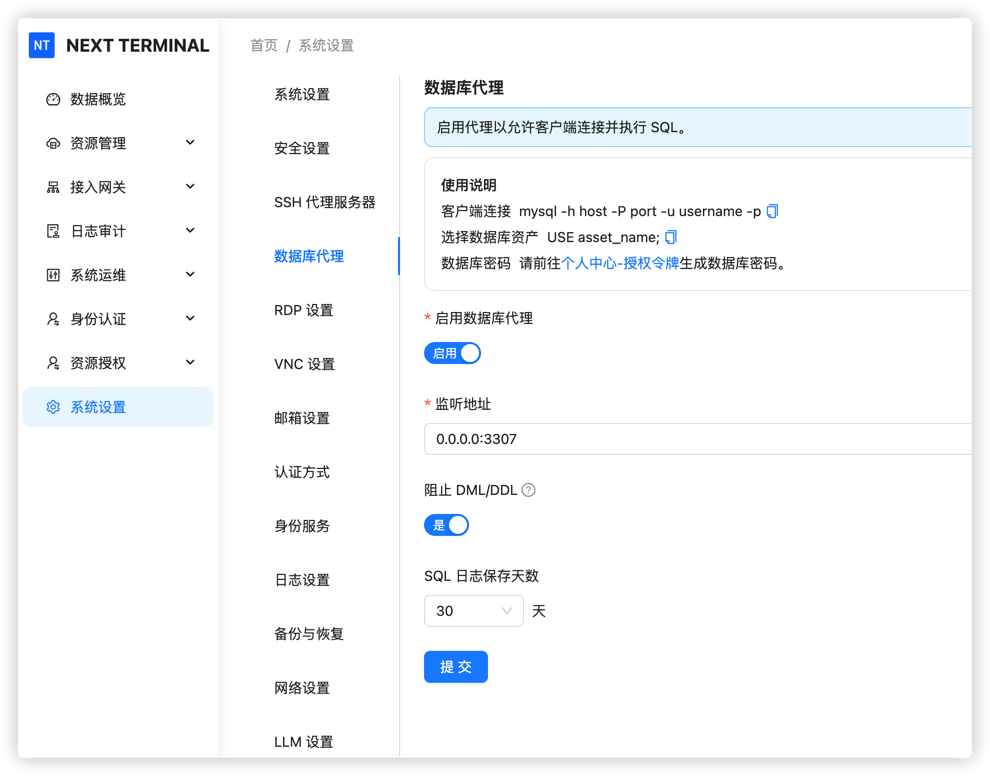
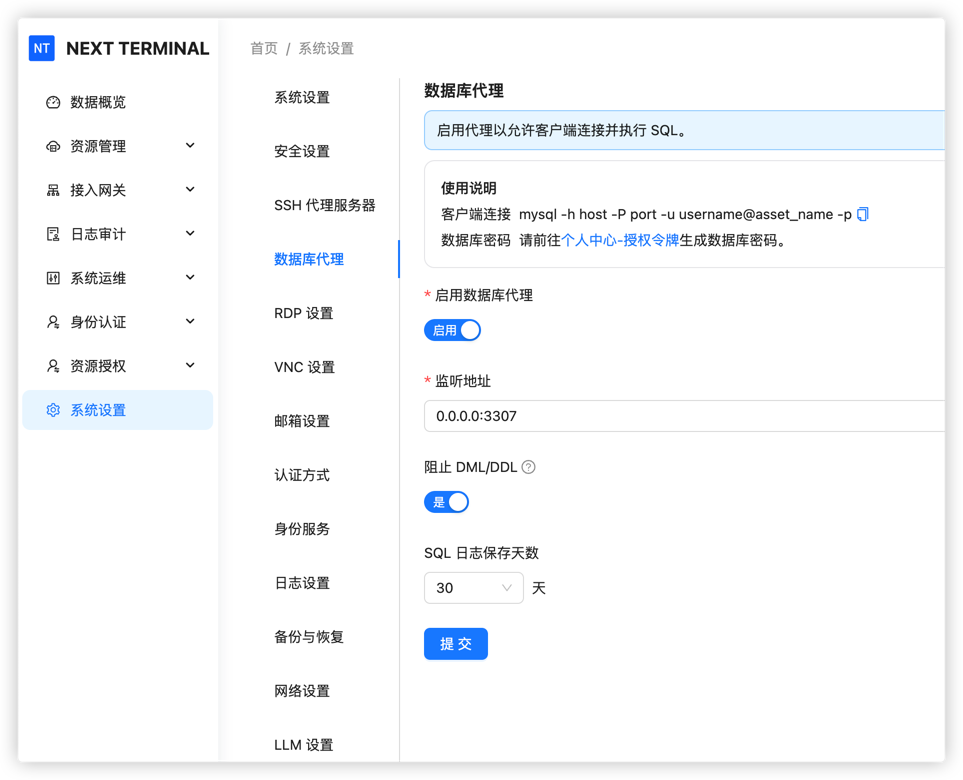
更新数据库连接文档

diff --git a/usage/database.md b/usage/database.md
@@ -19,7 +19,13 @@
 
 ![config.png](images/database/config.png)
 
-### 2. 添加数据库资产
+### 2. 创建数据库密码
+
+进入个人中心，创建令牌选择数据库密码。
+
+![token.png](images/database/token.png)
+
+### 3. 添加数据库资产
 
 在资产管理中添加数据库配置：
 
@@ -28,7 +34,7 @@
 
 ![asset.png](images/database/asset.png)
 
-### 3. 配置用户权限
+### 4. 配置用户权限
 
 在资源授权处配置用户权限：
 
@@ -43,6 +49,13 @@
 ### 连接数据库
 
 使用任意 MySQL 客户端工具（如 Navicat、DataGrip、MySQL Workbench 等）连接数据库。
+
+> mysql -h host -P port -u username@asset_name -p
+
+- host: NextTerminal 所在机器的 IP
+- port：网页上配置的数据库代理端口
+- u：NextTerminal用户账号@资产名称 （用户账号不是用户名称，切记！）
+- p：个人中心配置的数据库密码（每个人的密码都不一样，不要使用 A 的密码去用 B 的账号连接）
 
 ### 执行查询
 
